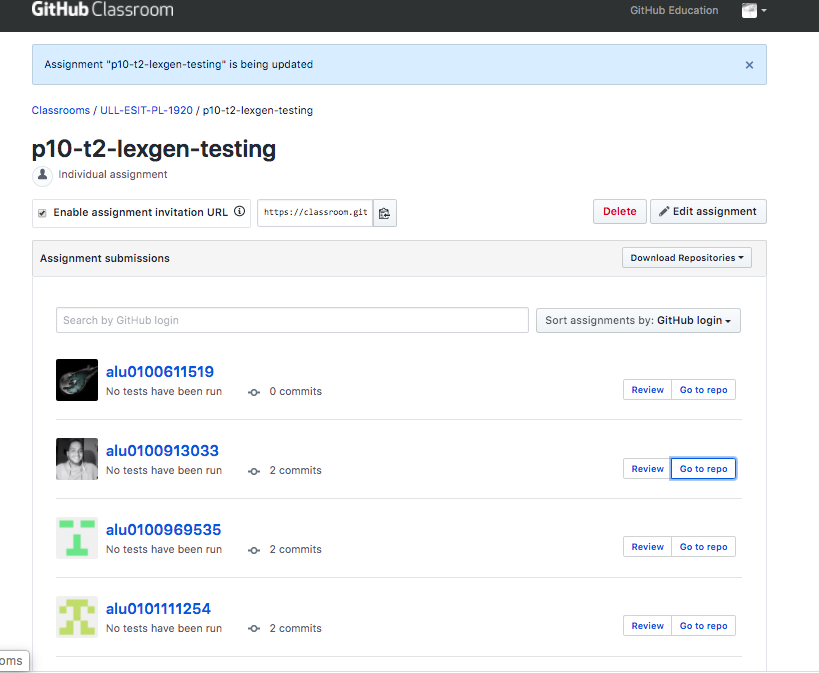
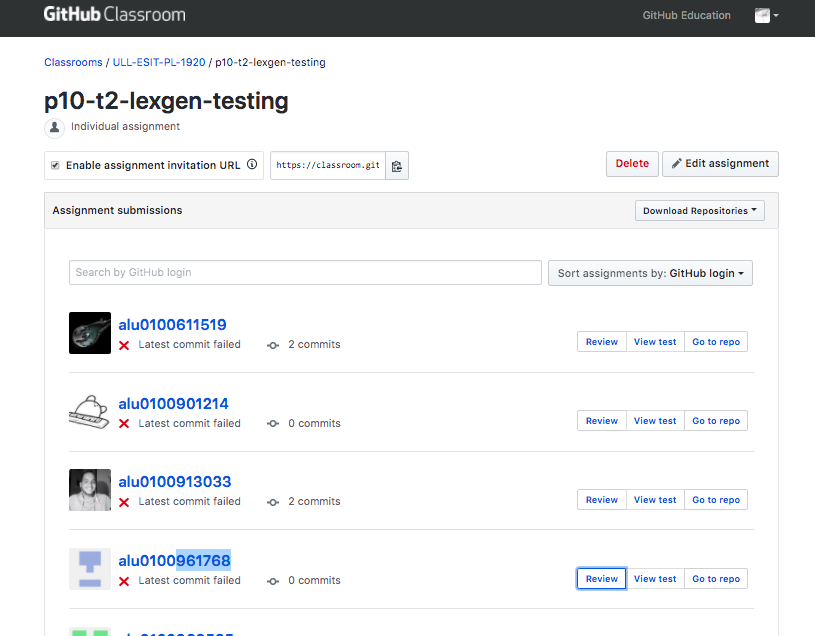
2019

diff --git a/_posts/2020-03-31-leccion.md b/_posts/2020-03-31-leccion.md
@@ -17,7 +17,15 @@ En la vista del profesor de GH Classroom aparece un nuevo botón `review` para r
 
 ![]({{site.baseurl}}/assets/images/github-classroom-autograde.png)
 
-Recuerden hacer un `pull` para obtener los cambios introducidos por la modificación de la asignación.
+Cuando se hace click en el botón `view test` se muestra laejecución delos tests:
+
+![](assets/images/github-classroom-autograde-view-test.png)
+
+y cuando se hece click en `review` se crea un pull request:
+
+![](assets/images/github-classroom-autograde-pull-request.png)
+
+Si tienen problemas, recuerden hacer un `pull` para obtener los cambios introducidos por la modificación de la asignación.
 
 Por supuesto asumimos que
 
